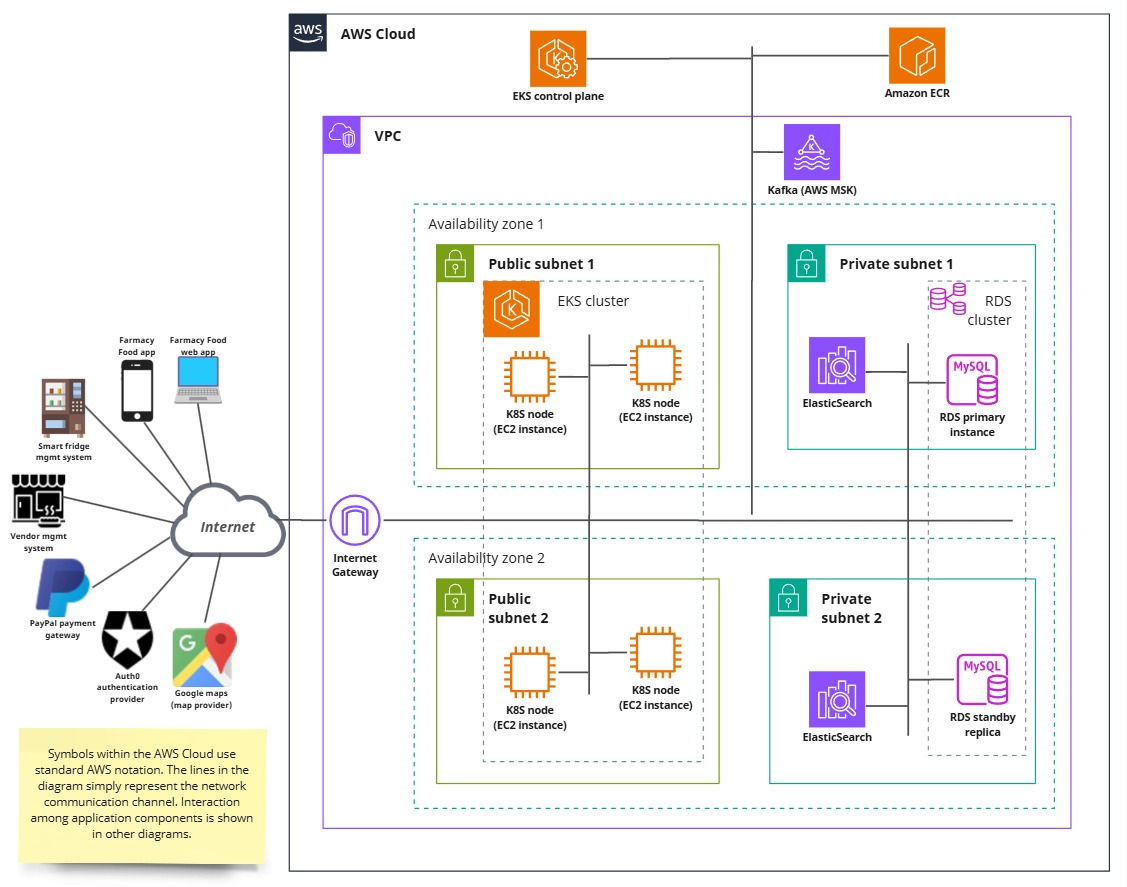
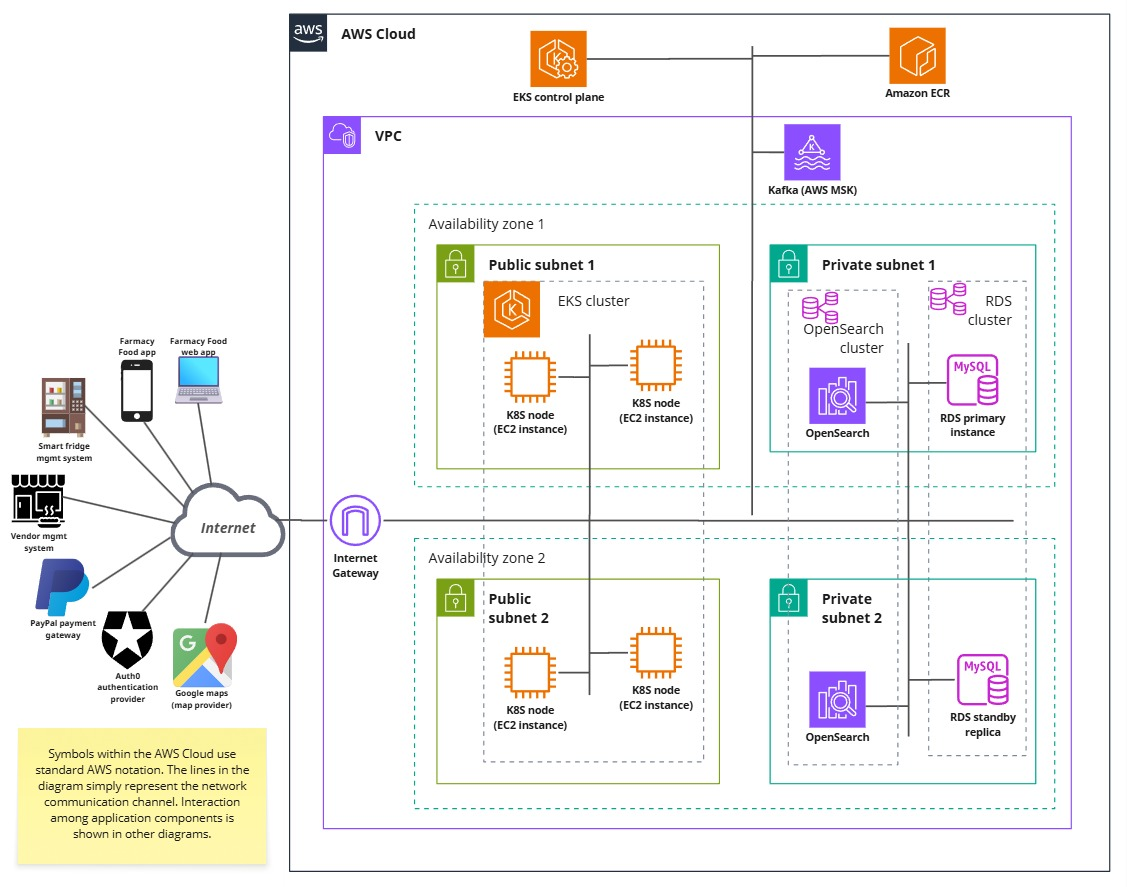
changing ElasticSearch to OpenSearch

diff --git a/architecture/aws-deployment-view.md b/architecture/aws-deployment-view.md
@@ -45,14 +45,14 @@ For example, the **Inventory** database seen below will be configured as a set o
 
 ![AWS deployment view](../images/inventory-db-symbol.png)    
 
-#### ElasticSearch
-- The [Elasticsearch service on AWS](https://aws.amazon.com/elasticsearch-service/) (ES) is a fully managed text-based NoSQL 
-database service that the Farmacy Food system will use for query views in different microservices.
-- There will be an ES *domain* for Farmacy Food. This ES domain should use the Farmacy Food VPC to enable automatic
-secure communication between application components (microservices and batch programs) and the ES nodes. 
-- The ES domain should use multi-AZ deployment for increased availability. 
-- The Farmacy Food System will use ES as the *query view* to be accessed by microservices that need to only read data. 
-For example, the **Inventory Query View** database seen below will be configured using ES.
+#### OpenSearch
+- The [OpenSearch service on AWS](https://aws.amazon.com/opensearch-service/) is a fully managed document-based NoSQL 
+database service that the Farmacy Food system will use for query views in different microservices. It stores collections of JSON documents.
+- There will be an OpenSearch *domain* for Farmacy Food. This OpenSearch domain should use the Farmacy Food VPC to enable automatic
+secure communication between application components (microservices and batch programs) and the OpenSearch managed cluster nodes. 
+- The OpenSearch cluster should use multi-AZ deployment for increased availability. 
+- The Farmacy Food System will use OpenSearch as the *query view* to be accessed by microservices that need to only read data. 
+For example, the **Inventory Query View** database seen below will be configured using OpenSearch.
 
 ![AWS deployment view](../images/inventory-query-view-db-symbol.png)    
 
@@ -78,7 +78,7 @@ for improved availability due to automatic failover.
 a [virtual private cloud](https://docs.aws.amazon.com/vpc/latest/userguide/VPC_Subnets.html) (VPC).
 - Public subnets 1 and 2 are visible to the Internet via an AWS internet gateway.
 - Private subnets 1 and 2 are not visible to the Internet. They can be connected to the Farmacy Food corporate LAN (not shown in the diagram). 
-- Although RDS and ES are configured within private subnets as a measure to protect them from unauthorized access.  
+- RDS and OpenSearch are configured within private subnets as a measure to protect them from unauthorized access.  
 
 #### Internet gateway 
 - The [Internet gateway](https://docs.aws.amazon.com/vpc/latest/userguide/VPC_Internet_Gateway.html) is attached to your VPC. Via
